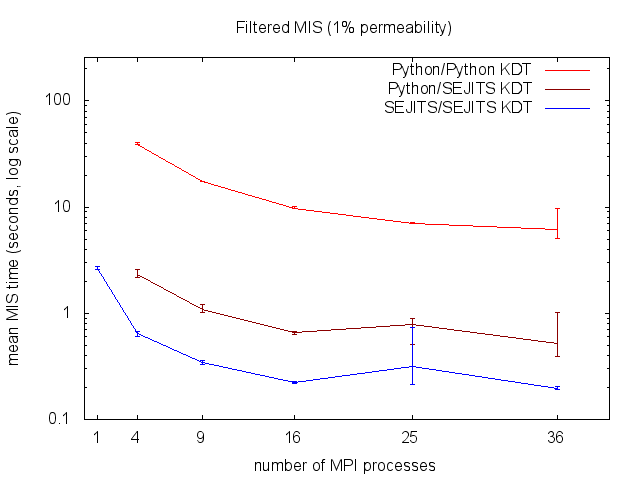
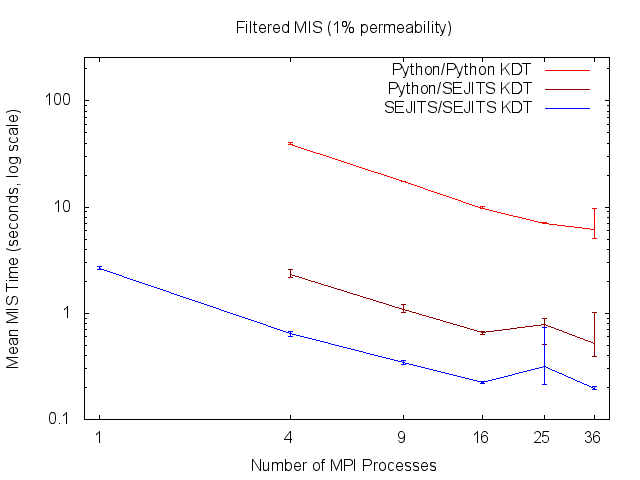
plots are log log

diff --git a/sandbox/AnalyzeIPDPS.py b/sandbox/AnalyzeIPDPS.py
@@ -27,6 +27,7 @@ if sys.argv[1] == "bfs":
 	result_type = "BFS"
 	
 	def parseCombBLAS(data):
+		return
 		for line in open(combblas_file, 'r'):
 			feats = line.split("\t")
 			core = int(feats[0])
@@ -37,6 +38,10 @@ if sys.argv[1] == "bfs":
 			data.append((core, "min_CombBLAS_OTFtime", filter, min_time))
 			data.append((core, "max_CombBLAS_OTFtime", filter, max_time))
 			data.append((core, "mean_CombBLAS_OTFtime", filter, mean_time))
+	
+	
+	doFilterGrid = True
+	doFilterEffects = True
 		
 elif sys.argv[1] == "mis":
 	cores = {1: "result_ipdps_MIS_1.txt", 4: "result_ipdps_MIS_4.txt", 9: "result_ipdps_MIS_9.txt", 16: "result_ipdps_MIS_16.txt", 25: "result_ipdps_MIS_25.txt", 36: "result_ipdps_MIS_36.txt"}
@@ -52,6 +57,9 @@ elif sys.argv[1] == "mis":
 
 	def parseCombBLAS(data):
 		pass
+
+	doFilterGrid = True
+	doFilterEffects = True
 else:
 	print "unknown option. use bfs or mis"
 	sys.exit()
@@ -63,6 +71,11 @@ for exp in experiments:
 
 
 data = []
+# data[i][0] == core count
+# data[i][1] == experiment variety
+# data[i][2] == filter permeability
+# data[i][3] == time
+
 # parse
 for (core, file) in cores.items():
 	for line in open(file, 'r'):
@@ -108,31 +121,85 @@ def format_table(data, group_col_idx, group_col_select_val, col_ids, row_ids, co
 	
 	return ret
 
-# print filter by filter
 
-for filter in filters:
-	print ""
-	k = cores.keys()
-	k.sort()
-	print "filter ",filter, k
-	grid = format_table(data, 2, filter, varieties, k, 1, 0, 3)
+if doFilterGrid:
+	# print filter by filter
+	for filter in filters:
+		print ""
+		k = cores.keys()
+		k.sort()
+		print "filter ",filter, k
+		grid = format_table(data, 2, filter, varieties, k, 1, 0, 3)
+		print grid
+	
+		filestem = "gnuplot_%d"%filter
+		
+		gnuplot = ""
+		gnuplot += 'set title "Filtered %s (%d%% permeability)"\n'%(result_type, filter)
+		gnuplot += 'set terminal png\n'
+		gnuplot += 'set output "%s.png"\n'%filestem
+		gnuplot += ''
+		gnuplot += 'set xrange [0.9:40]\n'
+		gnuplot += 'set yrange [0.1:256]\n'
+		gnuplot += 'set logscale y\n'
+		gnuplot += 'set logscale x\n'
+		gnuplot += "set xlabel 'Number of MPI Processes'\n"
+		gnuplot += "set ylabel 'Mean %s Time (seconds, log scale)'\n"%(result_type)
+		
+		xtics = ""
+		cc = cores.keys()
+		for i in range(len(cc)):
+			if i+1 < len(cc):
+				comma = ", "
+			else:
+				comma = ""
+			xtics += "'%d' %d%s"%(cc[i], cc[i], comma)
+		
+		gnuplot += "set xtics (%s)\n"%xtics
+		gnuplot += 'plot\\\n'
+		vars_per_exp = len(experiment_varieties)
+		for i in range(len(experiments)):
+			exp_col_start = 1 + vars_per_exp*i + 1
+			if i+1 < len(experiments):
+				comma = ",\\"
+			else:
+				comma = ""
+			gnuplot += ' "%s.dat" every ::1 using 1:%d:%d:%d title \'\' ps 0 lc rgb \'%s\' with errorbars,\\\n'%(filestem, exp_col_start,exp_col_start+1,exp_col_start+2, experiments[i][2])
+			gnuplot += ' "%s.dat" every ::1 using 1:%d title \'%s\' lc rgb \'%s\' with lines%s\n'%(filestem, exp_col_start, experiments[i][1], experiments[i][2], comma)
+	
+		print ""
+		print gnuplot
+		
+		f = open('%s.dat'%filestem, 'w')
+		f.write(grid)
+		f.close()
+	
+		f = open('%s.gp'%filestem, 'w')
+		f.write(gnuplot)
+		f.close()
+
+# draw permeability plot, increasing filters on largest core count
+if doFilterEffects:	
+	core_cnt = max(cores.keys())
+	print "=== filter permeability ==="
+	grid = format_table(data, 0, core_cnt, varieties, [1, 10, 25, 100], 1, 2, 3)
 	print grid
 
-	filestem = "gnuplot_%d"%filter
+	filestem = "gnuplot_perm_%d"%core_cnt
 	
 	gnuplot = ""
-	gnuplot += 'set title "Filtered %s (%d%% permeability)"\n'%(result_type, filter)
+	gnuplot += 'set title "Effects of Filter Permeability (%d processes)"\n'%(core_cnt)
 	gnuplot += 'set terminal png\n'
 	gnuplot += 'set output "%s.png"\n'%filestem
 	gnuplot += ''
-	gnuplot += 'set xrange [0:40]\n'
-	gnuplot += 'set yrange [0.1:256]\n'
+	gnuplot += 'set xrange [-5:105]\n'
+	gnuplot += 'set yrange [0.1:32]\n'
 	gnuplot += 'set logscale y\n'
-	gnuplot += "set xlabel 'number of MPI processes'\n"
-	gnuplot += "set ylabel 'mean %s time (seconds, log scale)'\n"%(result_type)
+	gnuplot += "set xlabel 'Filter Permeability'\n"
+	gnuplot += "set ylabel 'Mean %s Time (seconds, log scale)'\n"%(result_type)
 	
 	xtics = ""
-	cc = cores.keys()
+	cc = filters
 	for i in range(len(cc)):
 		if i+1 < len(cc):
 			comma = ", "
